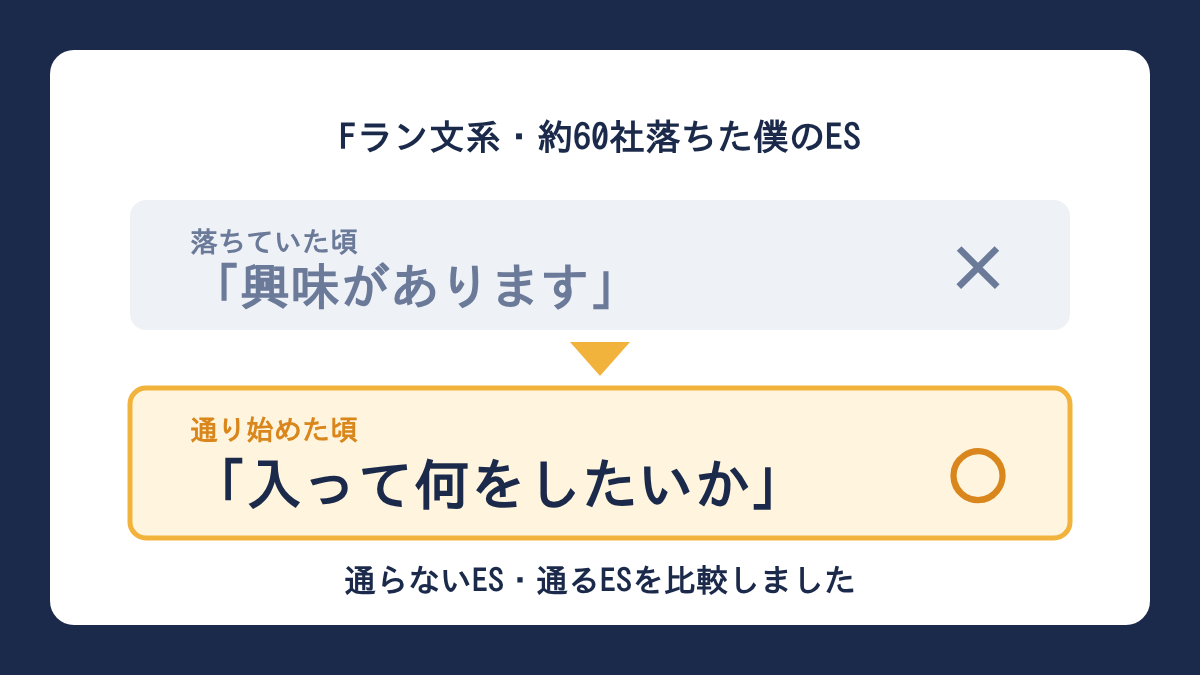
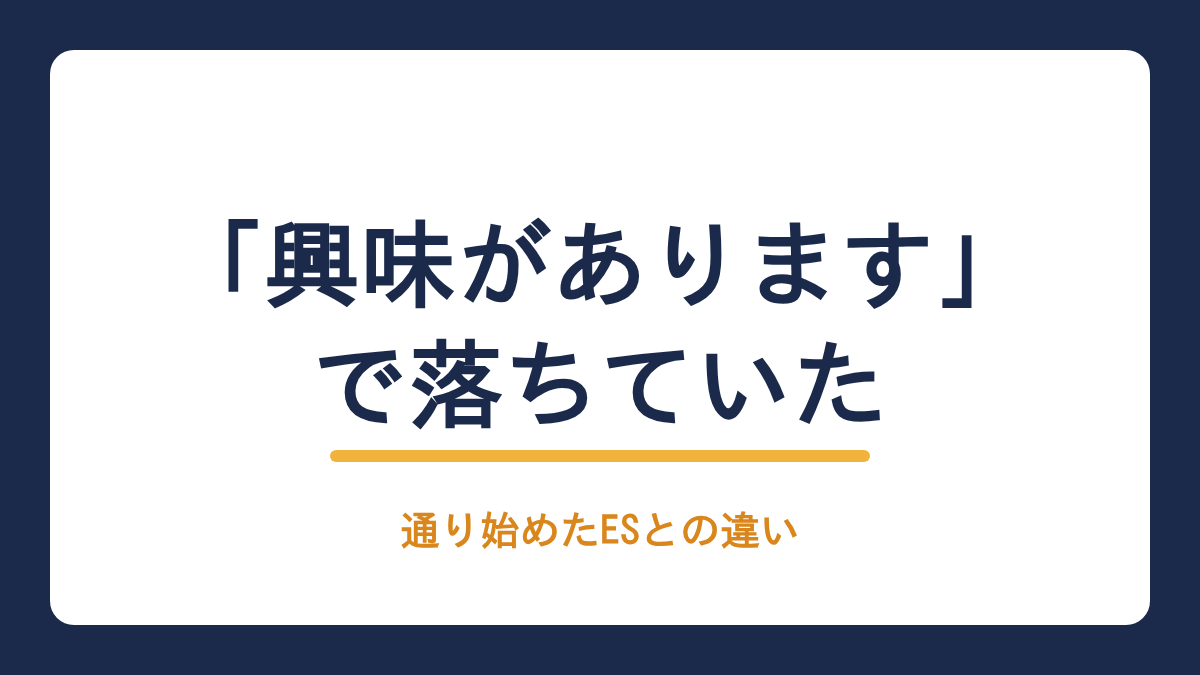
画像の文字を減らす修正
Claude-Session: https://claude.ai/code/session_01FG2PHRpEQpbe9xebSTLZve

diff --git a/成果物/2026-10-20_Fラン生でも大手の書類が通る方法/05_画像/使い方.md b/成果物/2026-10-20_Fラン生でも大手の書類が通る方法/05_画像/使い方.md
@@ -13,17 +13,26 @@
 
 1. **Fラン文系が書類に通り始めたES**（境遇が一目で分かる案。見出し画像に採用）
 2. **「興味があります」で落ちていた**（落ちていた頃のESの言葉をそのまま使う案。X告知画像に採用）
-3. **志望動機は「入って何をしたいか」**（記事の考え方1つ目をそのまま使う案。X告知画像の下段に採用）
+3. **志望動機は「入って何をしたいか」**（記事の考え方1つ目をそのまま使う案。今回は画像に入れず、X投稿文の候補として回す）
 
 ---
 
 ## 画像一覧
 
-| ファイル | サイズ | 使う場所 | 画像の文字 |
+レビュー1回目の指摘（文字が多すぎる）を受けて、見出し画像・X告知画像は「メインの1文（15字程度）＋小さな補助の一言1つ」に絞りました（2回目）。
+
+| ファイル | サイズ | 使う場所 | 画像の文字（字数） |
 |---|---|---|---|
-| `note見出し_1280x670.png` | 1280×670px | noteの見出し画像（アイキャッチ） | 約100社出して約60社落ちた／Fラン文系が 書類に通り始めたES／通らないES・通るESを比較 |
-| `X告知_1200x675.png` | 1200×675px | Xの告知投稿に添付（SNS告知担当の投稿下書きと組み合わせる） | Fラン文系・約60社落ちた僕のES／落ちていた頃「興味があります」×／通り始めた頃「入って何をしたいか」○／通らないES・通るESを比較しました |
-| `図解_志望動機の流れ_1280x720.png` | 1280×720px | 有料部分「【テンプレ】志望動機の型」のテンプレ（コードブロック）の直前。または「ステップ4: 経験と『やりたいこと』を1本の線でつなぐ」の末尾 | 志望動機は、この順で書く／1 入社後にやりたいこと（1つだけ決める）→ 2 自分の経験（大きさは問わない）→ 3 どう活きるか（1と2をつなぐ）／「興味があります」で終わらせない |
+| `note見出し_1280x670.png` | 1280×670px | noteの見出し画像（アイキャッチ） | メイン「Fラン文系が書類に通り始めたES」（16字）／補助「約60社落ちた」（6字） |
+| `X告知_1200x675.png` | 1200×675px | Xの告知投稿に添付（SNS告知担当の投稿下書きと組み合わせる） | メイン「「興味があります」で落ちていた」（15字。かぎかっこ込み）／補助「通り始めたESとの違い」（11字） |
+| `図解_志望動機の流れ_1280x720.png` | 1280×720px | 有料部分「【テンプレ】志望動機の型」のテンプレ（コードブロック）の直前。または「ステップ4: 経験と『やりたいこと』を1本の線でつなぐ」の末尾 | 志望動機は、この順で書く／1 入社後にやりたいこと（1つだけ決める）→ 2 自分の経験（大きさは問わない）→ 3 どう活きるか（1と2をつなぐ）／「興味があります」で終わらせない（手順の図解のため15字の決まりの対象外。レビュー1回目で了承済み） |
+
+### 画像から外した文言（記事タイトル・投稿文に回す）
+画像には入れず、次の場所で使ってください。
+- 「約100社出して」 → 記事タイトル（すでに入っている）・X投稿文
+- 「通らないES・通るESを比較」 → 記事タイトルの【 】内（すでに入っている）・X投稿文
+- 「入って何をしたいか」（落ちていた頃×／通り始めた頃○の対比） → X投稿文（SNS告知担当へ）
+- 「Fラン文系・約60社落ちた僕のES」 → X投稿文の書き出し候補（SNS告知担当へ）
 
 - 各PNGと同じ名前の `.svg` が元データです。文字を直すときは `.svg` の `<text>` を書き換えて書き出し直します。
 - note見出し画像は、表示場所によって左右が少し切れることがあるため、文字はすべて中央寄せ・左右に余白を取っています。
@@ -32,11 +41,10 @@
 
 ## 記事との照合（レビュー担当向け）
 
-- 数字は「約100社」「約60社」だけ（体験メモ・記事見出し1と同じ。「約」付き）。%の数字は画像に入れていません。
+- 数字は見出し画像の「約60社」だけ（体験メモ・記事見出し1と同じ。「約」付き）。%の数字は画像に入れていません。
 - 「大手の書類に通った」と言い切る文字は入れていません。「大手」という語自体を画像に使っていません。
 - 「書類に通り始めた」は記事タイトル・見出し1（「このころから、書類が通り始めました」）の表現です。
-- 「通らないES・通るESを比較」は記事タイトルの【 】内の表現です。
-- 「興味があります」「入って何をしたいか」「落ちていた頃」「通り始めた頃」は見出し2・3・4の表現です。
+- 「興味があります」は見出し2、「落ちていた」「通り始めた」は見出し1・2・4、「違い」は見出し1（「落ちていた頃のESと、通り始めた頃のESの違いを書きます」）の表現です。
 - 図解の3つの箱は、見出し3（1つ目の考え方）、テンプレの使い方1〜3、ステップ2〜4の内容のままです。「大きさは問わない」はテンプレの使い方2、「1と2をつなぐ」は使い方3、「1つだけ決める」はステップ2・使い方1。
 - 図解は「通らないES・通るES」の比較表ではなく志望動機の流れにしました。比較表の3行目（ガクチカ・通らなかったES側）が【社長に確認】のままで、画像にすると中身を作ってしまうためです。
 - 社長の顔写真・実在企業のロゴ・他人の素材は使っていません。
